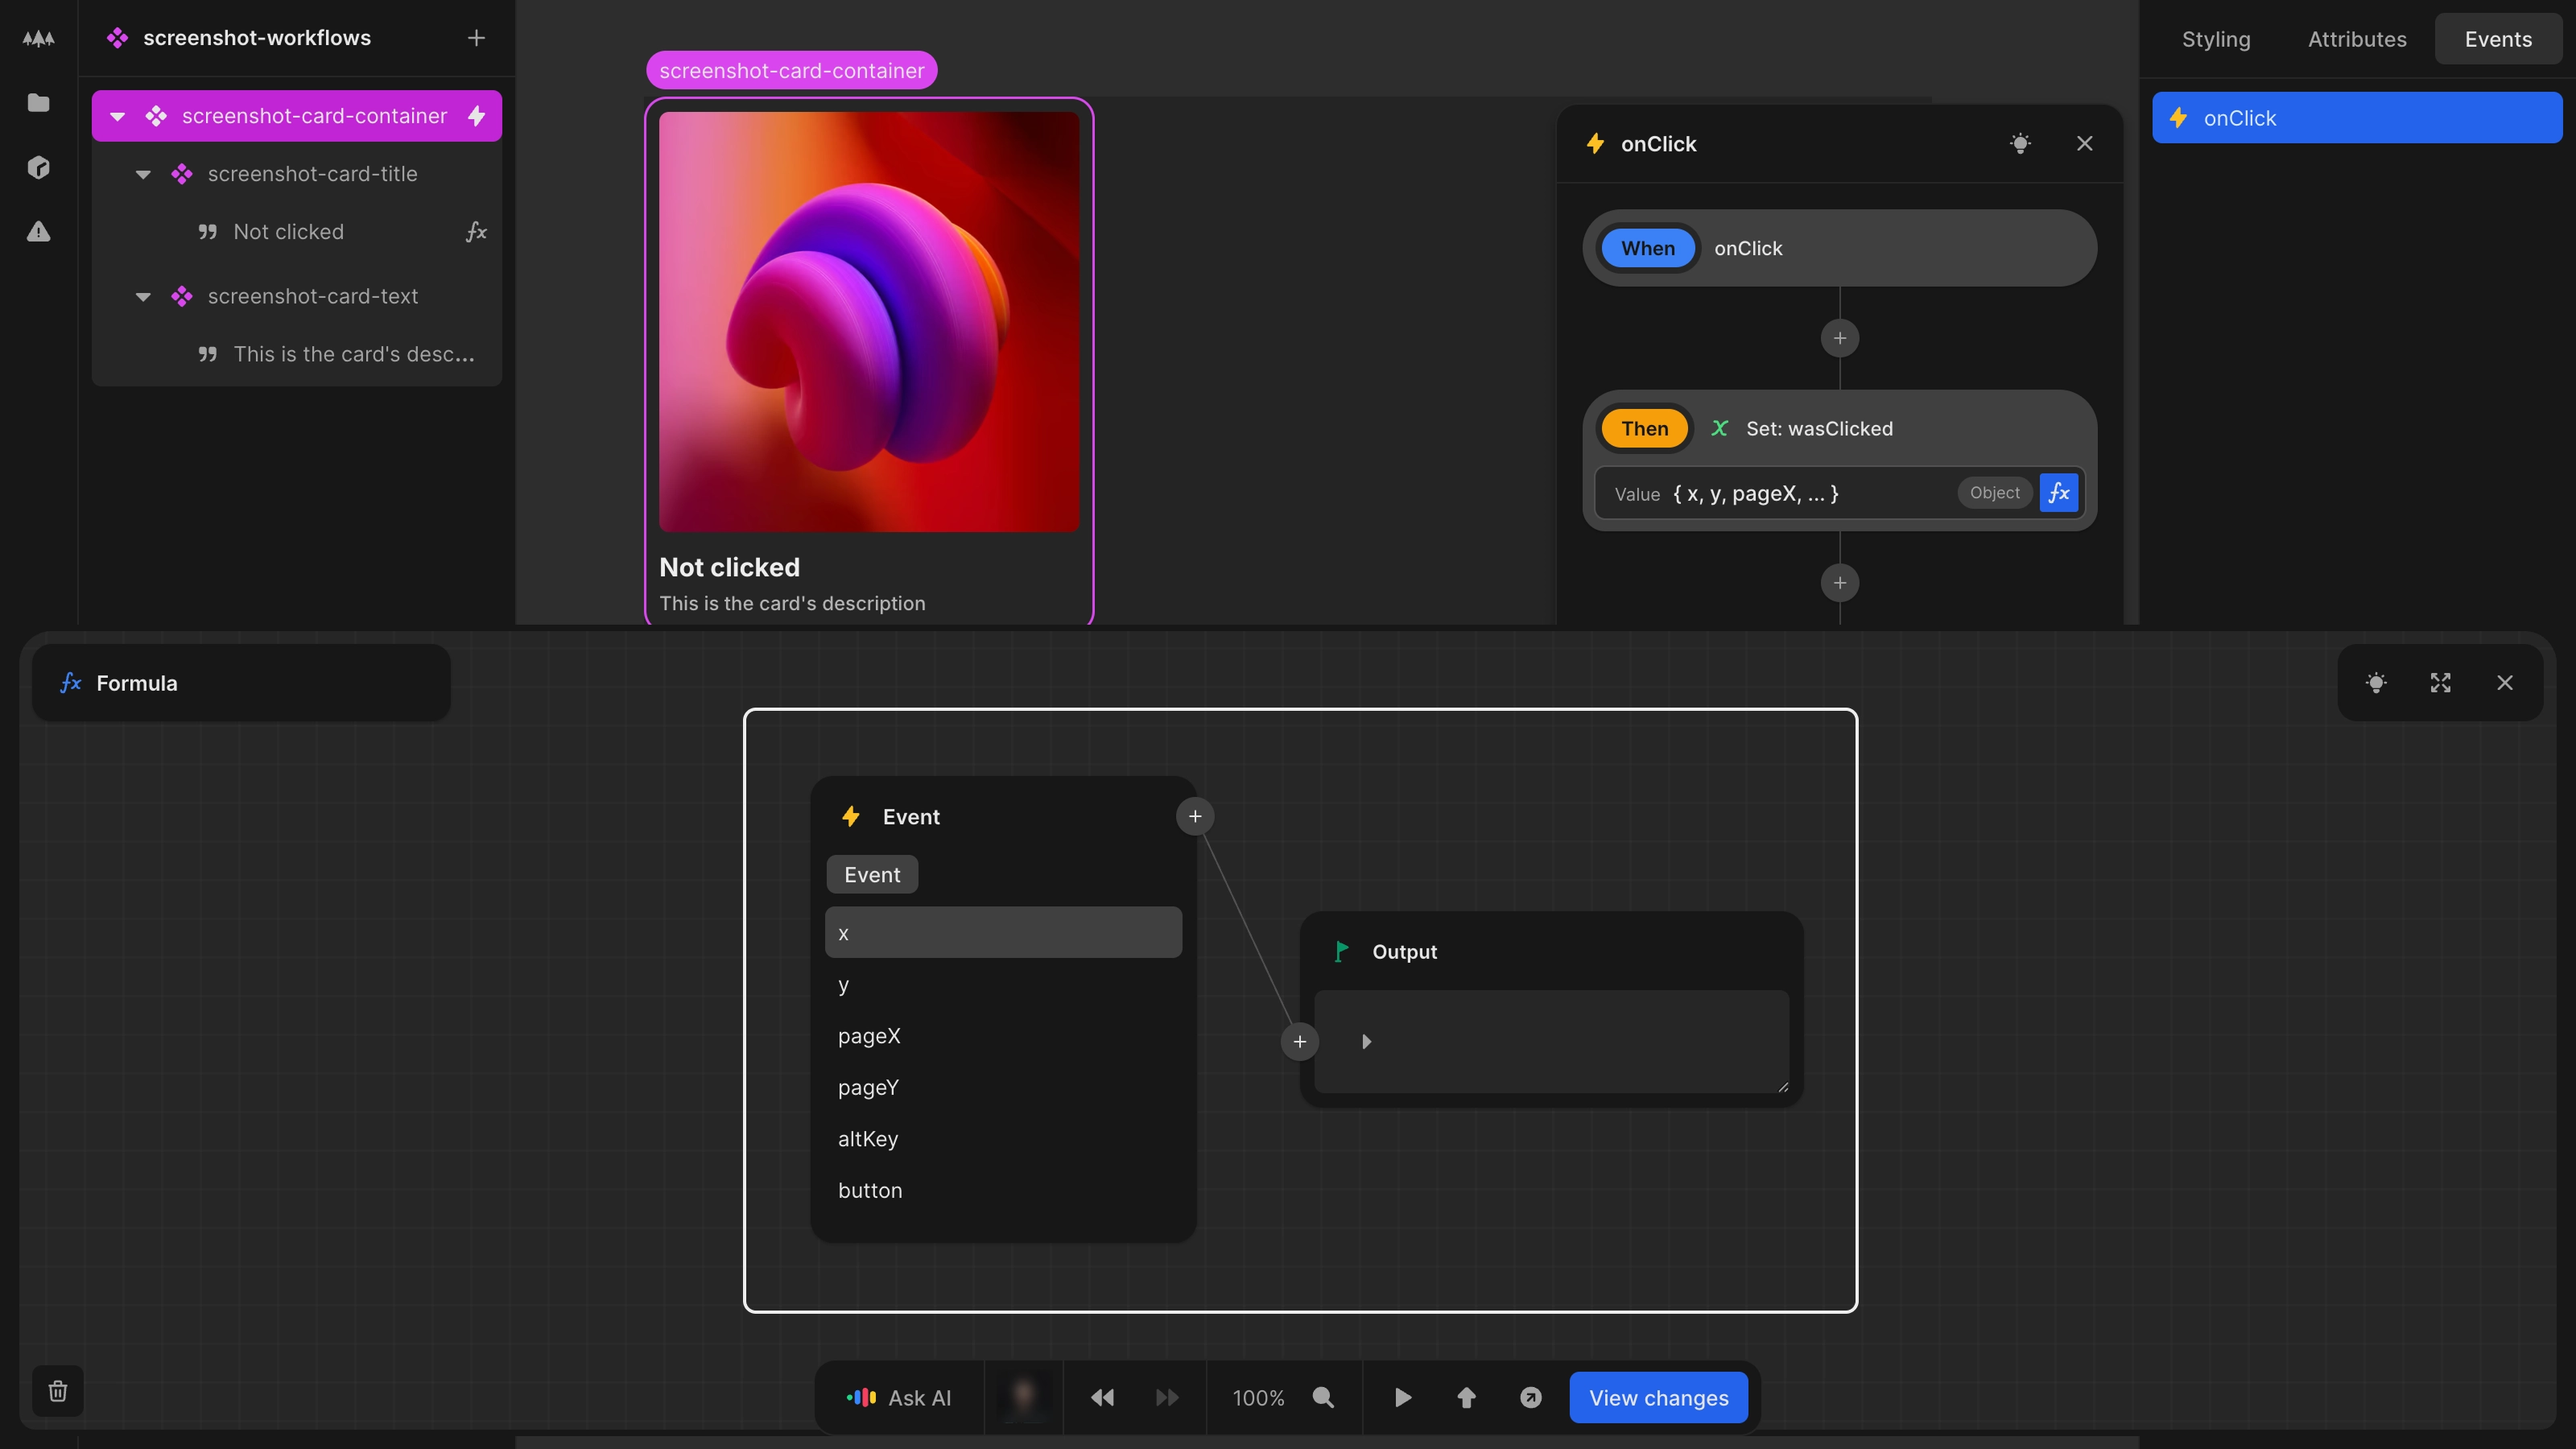
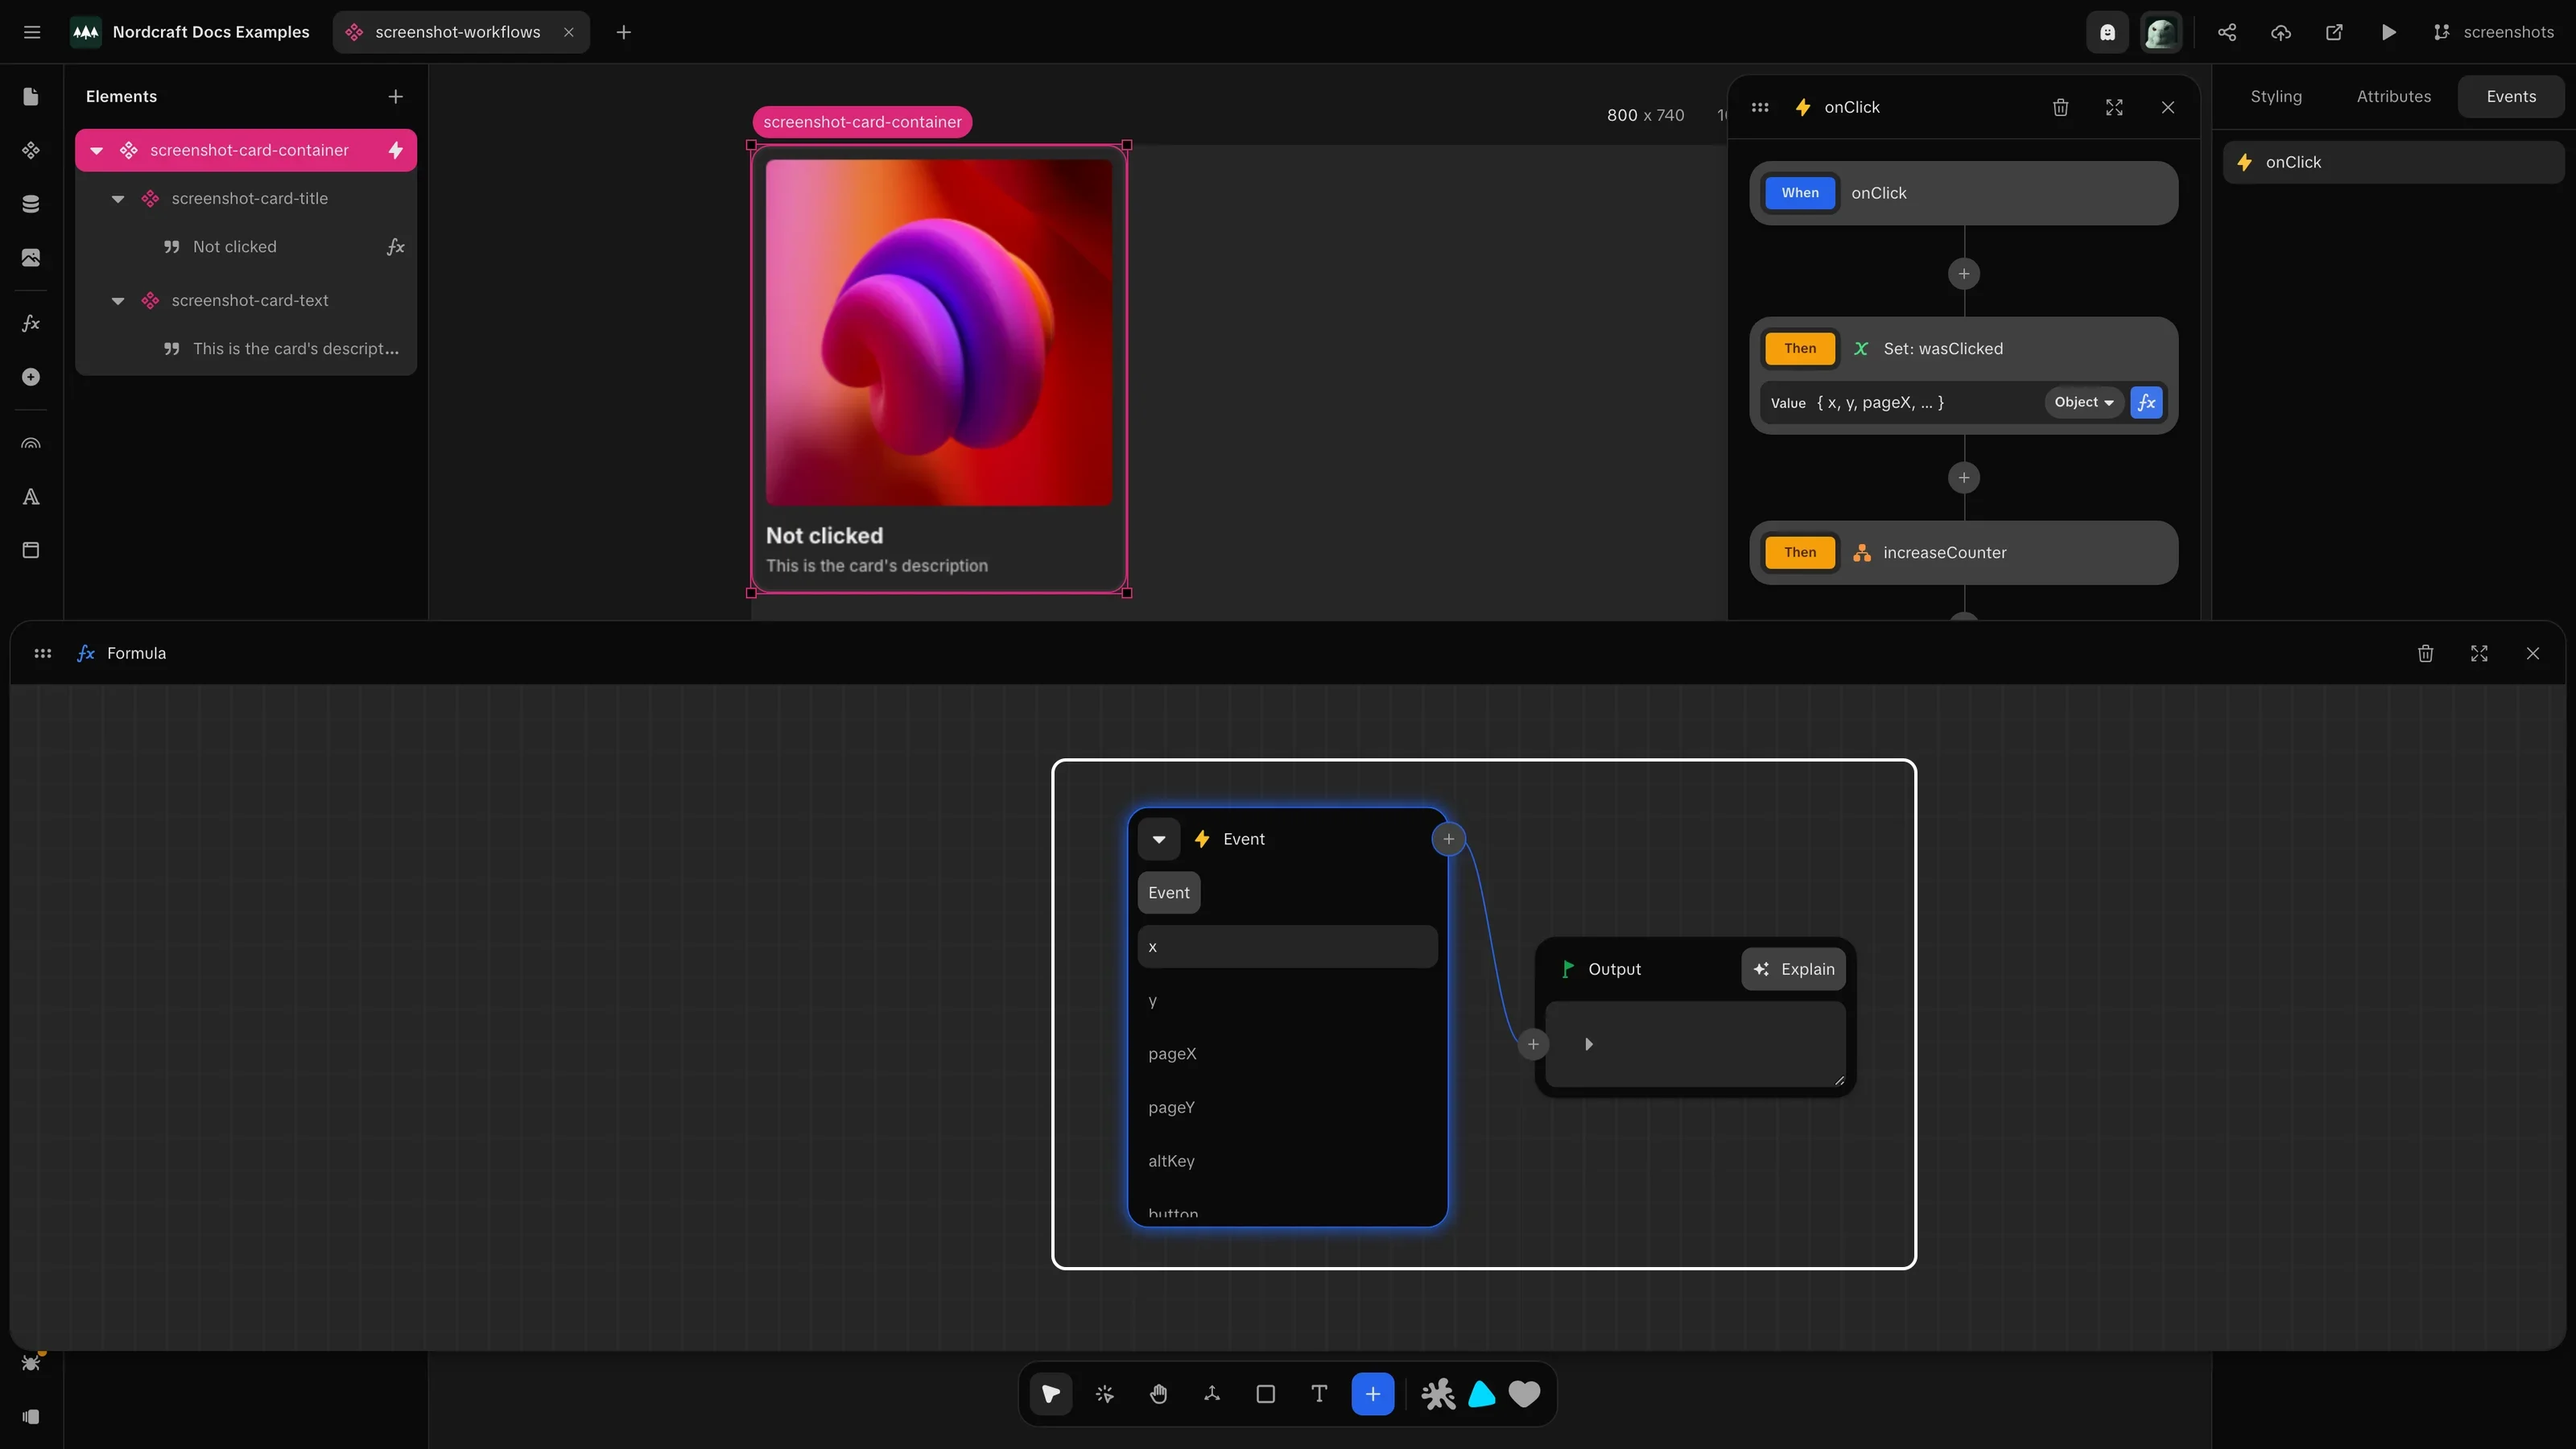
workflow event data

diff --git a/docs/workflows/working-with-workflows/workflow-event-data.screenshot.ts b/docs/workflows/working-with-workflows/workflow-event-data.screenshot.ts
@@ -1,0 +1,20 @@
+import { defineScreenshot } from '@/scripts/capture-screenshots'
+import type { Page } from 'playwright'
+
+// Placeholder script for workflow-event-data.webp
+export default defineScreenshot({
+  path: '/projects/docs_examples/branches/screenshots/components/screenshot-workflows?mode=design&canvas-tool=select&canvas-width=800&selection=nodes.root.events.onClick.actions.0.data&rightpanel=events',
+  setup: async (page: Page) => {
+    await page.waitForTimeout(500)
+  },
+  annotations: [
+    {
+      type: 'box',
+      x: 327,
+      y: 236,
+      width: 268,
+      height: 158,
+      rx: 4
+    }
+  ],
+})
